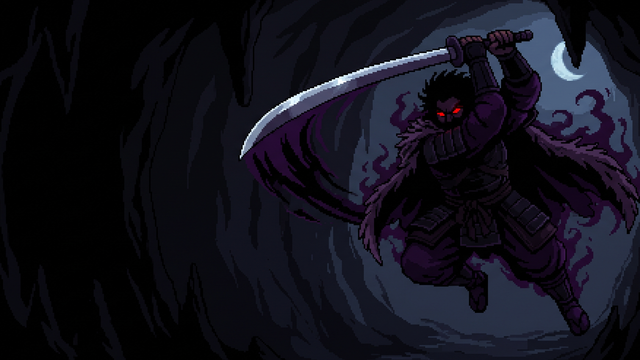
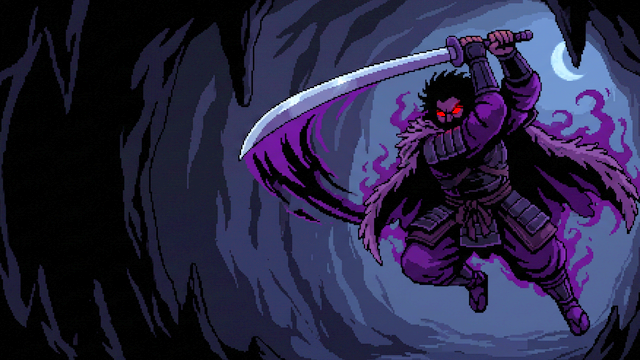
v110: 必殺技の挿絵を明るく・黒沼の大水・ムカデとオロチの絵

diff --git a/src/scenes/FieldScene.js b/src/scenes/FieldScene.js
@@ -2,31 +2,31 @@
 // 上 y0〜420 に地図（1マス32ドット・旅の者が真ん中、しおりと加わった仲間が1歩ずつうしろに続く）／下の窓に十字キーと「はなす」「どうぐ」
 // 話す・店・宿の文と選びも下の窓（そのあいだ十字キーは隠す）
 // 旅の状態は registry の 'game'（計算は src/field/game.js）。地図が変わる（町に入る・出る）たびに この場面を始め直す
-import { EPISODES } from '../data/episodes.js?v=109';
-import { ITEMS, PRICE, itemNote } from '../data/items.js?v=109';
-import { FISH, PRIZES, ROD_PRICE, BITE_WINDOW_MS, WAIT_MS, rollFish, zoneStart, inZone, rentRod, addCatch, exchange } from '../field/fishing.js?v=109';
-import { RIDERS } from '../data/nomaoi_assets.js?v=109';
-import { FLAGS, FLAG_PRIZES, ENTRY_PRICE, ROUND_MS, CATCH_P, newRace, stepRace, racePts, flagX, fallP, enterRace, addFlags, exchangeFlag } from '../field/nomaoi.js?v=109';
-import { TILE } from '../field/tiles.js?v=109';
-import { GROUNDS, OBJECTS, fieldLook, townLook } from '../field/look.js?v=109';
-import { preloadKit, makeWindow, makeButton, makePad, paginate } from '../ui/kit.js?v=109';
-import { preloadPeople, frameOf, ORIGIN_Y } from '../field/sprites.js?v=109';
-import { TOWNS, TOWN_OF } from '../field/towns.js?v=109';
+import { EPISODES } from '../data/episodes.js?v=110';
+import { ITEMS, PRICE, itemNote } from '../data/items.js?v=110';
+import { FISH, PRIZES, ROD_PRICE, BITE_WINDOW_MS, WAIT_MS, rollFish, zoneStart, inZone, rentRod, addCatch, exchange } from '../field/fishing.js?v=110';
+import { RIDERS } from '../data/nomaoi_assets.js?v=110';
+import { FLAGS, FLAG_PRIZES, ENTRY_PRICE, ROUND_MS, CATCH_P, newRace, stepRace, racePts, flagX, fallP, enterRace, addFlags, exchangeFlag } from '../field/nomaoi.js?v=110';
+import { TILE } from '../field/tiles.js?v=110';
+import { GROUNDS, OBJECTS, fieldLook, townLook } from '../field/look.js?v=110';
+import { preloadKit, makeWindow, makeButton, makePad, paginate } from '../ui/kit.js?v=110';
+import { preloadPeople, frameOf, ORIGIN_Y } from '../field/sprites.js?v=110';
+import { TOWNS, TOWN_OF } from '../field/towns.js?v=110';
 import {
   mapRows, terrainAt, canWalk, tileNameAt, DELTA, BOSS_AT, WALL_OPENED_BY, SAVE_KEY, maxOf,
   enterTown, leaveTown, buy, stayInn, save, autoSaveAfterBoss, useItem, walkStep, encounterAt,
   purify, kuyo, returnStolen, HARAI_PRICE, KUYO_PRICE, revive, revivePrice, NAME, isField, crossAt,
-} from '../field/game.js?v=109';
-import { membersOf } from '../battle/levels.js?v=109';
-import { COMPANIONS } from '../data/companions.js?v=109';
-import { ICON_IDS } from '../data/icons.js?v=109';
-import { FACE_IDS } from '../data/faces.js?v=109';
-import { mapPointOf } from '../field/mapcard.js?v=109';
-import { FISHING_ICON_IDS } from '../data/icons_fishing.js?v=109';
-import { makeRng } from '../battle/rules.js?v=109';
-import { EQUIP, SLOTS, SLOT_NAME, equipNote, START_EQUIP, diffNote, diffDown } from '../data/equip.js?v=109';
-import { buyEquip, partyView } from '../field/game.js?v=109';
-import { sfx, startBgm, playJingle, jingleSeconds } from '../audio/chip.js?v=109';
+} from '../field/game.js?v=110';
+import { membersOf } from '../battle/levels.js?v=110';
+import { COMPANIONS } from '../data/companions.js?v=110';
+import { ICON_IDS } from '../data/icons.js?v=110';
+import { FACE_IDS } from '../data/faces.js?v=110';
+import { mapPointOf } from '../field/mapcard.js?v=110';
+import { FISHING_ICON_IDS } from '../data/icons_fishing.js?v=110';
+import { makeRng } from '../battle/rules.js?v=110';
+import { EQUIP, SLOTS, SLOT_NAME, equipNote, START_EQUIP, diffNote, diffDown } from '../data/equip.js?v=110';
+import { buyEquip, partyView } from '../field/game.js?v=110';
+import { sfx, startBgm, playJingle, jingleSeconds } from '../audio/chip.js?v=110';
 
 // 景品の窓（釣り＝小名浜の釣り番／旗＝雲雀ヶ原の世話役）。同じ窓を 点の名前と景品の表だけ替えて使う
 const PRIZE_SHOPS = {

diff --git a/src/scenes/BattleScene.js b/src/scenes/BattleScene.js
@@ -1,14 +1,14 @@
-import { EPISODES } from '../data/episodes.js?v=109';
-import { revealAt } from '../ui/reveal.js?v=109';
-import { createBattle, resolveTurn, makeRng } from '../battle/rules.js?v=109';
-import { chooseCommands } from '../battle/auto.js?v=109';
-import { itemNote } from '../data/items.js?v=109';
-import { unlock, isUnlocked, sfx, startBgm, stopBgm, toggleMute, isMuted, playVoice, stopVoice, voiceLevel } from '../audio/chip.js?v=109';
-import { STORY_FILES } from '../data/story_assets.js?v=109';
-import { CUTIN_FILES } from '../data/cutin_assets.js?v=109';
-import { drawScroll } from '../ui/scroll.js?v=109';
-import { preloadKit, makeWindow, makeButton, paginate } from '../ui/kit.js?v=109';
-import { battleData, afterWin, afterLose, afterForcedLose, zakoData, afterZako, BOSS_MON } from '../field/game.js?v=109';
+import { EPISODES } from '../data/episodes.js?v=110';
+import { revealAt } from '../ui/reveal.js?v=110';
+import { createBattle, resolveTurn, makeRng } from '../battle/rules.js?v=110';
+import { chooseCommands } from '../battle/auto.js?v=110';
+import { itemNote } from '../data/items.js?v=110';
+import { unlock, isUnlocked, sfx, startBgm, stopBgm, toggleMute, isMuted, playVoice, stopVoice, voiceLevel } from '../audio/chip.js?v=110';
+import { STORY_FILES } from '../data/story_assets.js?v=110';
+import { CUTIN_FILES, CUTIN_V } from '../data/cutin_assets.js?v=110';
+import { drawScroll } from '../ui/scroll.js?v=110';
+import { preloadKit, makeWindow, makeButton, paginate } from '../ui/kit.js?v=110';
+import { battleData, afterWin, afterLose, afterForcedLose, zakoData, afterZako, BOSS_MON } from '../field/game.js?v=110';
 
 // 1つの戦いの画面を、話ごとのデータ（src/data/<話>.js・並びは episodes.js）で使い回す
 // 絵は Gemini で描いて art_src/prep_art.py で整えた物（敵も背景も2倍で見せる）。データの art に置き場と光の色
@@ -73,7 +73,7 @@ export class BattleScene extends Phaser.Scene {
       }
     }
     // 必殺技の挿絵（カットイン・10/3〜）。届いている物だけ読む
-    for (const sp of [this.ep.enemy.special, this.ep.enemy.special2]) if (sp?.cutin && CUTIN_FILES.includes(sp.cutin) && !this.textures.exists(sp.cutin)) this.load.image(sp.cutin, sp.cutin);
+    for (const sp of [this.ep.enemy.special, this.ep.enemy.special2]) if (sp?.cutin && CUTIN_FILES.includes(sp.cutin) && !this.textures.exists(sp.cutin)) this.load.image(sp.cutin, `${sp.cutin}?v=${CUTIN_V}`);
     preloadKit(this);
     for (const f of ['normal', 'surprise', 'sad']) if (!this.textures.exists(`face_${f}`)) this.load.image(`face_${f}`, `assets/cards/face_${f}.png`);
   }

diff --git a/src/data/episodes.js b/src/data/episodes.js
@@ -1,19 +1,19 @@
 // 遊ぶ順（話数＝順路の順・本人 10/1）。題の画面は先頭の話を出し、勝つと「つぎの話へ」で次へ進む
 // 序章：第一話 松川様 → 第二話 賢沼の大うなぎ → 第三話 蛇岸淵（淵の主）→ 第四話 龍燈
-import { MATSUKAWA } from './matsukawa.js?v=109';
-import { KASHINUMA } from './kashinuma.js?v=109';
-import { JAGAN } from './jagan.js?v=109';
-import { RYUTO } from './ryuto.js?v=109';
+import { MATSUKAWA } from './matsukawa.js?v=110';
+import { KASHINUMA } from './kashinuma.js?v=110';
+import { JAGAN } from './jagan.js?v=110';
+import { RYUTO } from './ryuto.js?v=110';
 // 1章 相馬（10/3）：第五話 ザルカブリ山 → 第六話 大悲山の大蛇 → 第七話 手長明神 → 第八話 虎捕山の白狼（橘墨虎）
-import { ZARUKABURI } from './zarukaburi.js?v=109';
-import { DAIHISAN } from './daihisan.js?v=109';
-import { TENAGA } from './tenaga.js?v=109';
-import { SUMITORA } from './sumitora.js?v=109';
+import { ZARUKABURI } from './zarukaburi.js?v=110';
+import { DAIHISAN } from './daihisan.js?v=110';
+import { TENAGA } from './tenaga.js?v=110';
+import { SUMITORA } from './sumitora.js?v=110';
 // 2章 県北（10/4）：第九話 飴買い幽霊 → 第十話 ご坊狐 → 第十一話 ムカデとオロチ → 第十二話 へっぴり嫁 → 第十三話 安達ヶ原の鬼婆
-import { AMEKAI } from './amekai.js?v=109';
-import { GOBOU } from './gobou.js?v=109';
-import { MUKADE } from './mukade.js?v=109';
-import { HEPPIRI } from './heppiri.js?v=109';
-import { ONIBABA } from './onibaba.js?v=109';
+import { AMEKAI } from './amekai.js?v=110';
+import { GOBOU } from './gobou.js?v=110';
+import { MUKADE } from './mukade.js?v=110';
+import { HEPPIRI } from './heppiri.js?v=110';
+import { ONIBABA } from './onibaba.js?v=110';
 
 export const EPISODES = [MATSUKAWA, KASHINUMA, JAGAN, RYUTO, ZARUKABURI, DAIHISAN, TENAGA, SUMITORA, AMEKAI, GOBOU, MUKADE, HEPPIRI, ONIBABA];

diff --git a/src/field/game.js b/src/field/game.js
@@ -1,15 +1,15 @@
 // 旅の状態（居場所・文・持ち物・仲間の HP・元に戻したボス・記録）。画面と切り離す＝Node で試験する
 // ここの関数は game を書き換えずに、新しい game を返す
-import { IWAKI_ROWS } from './iwaki_map.js?v=109';
-import { SOMA_ROWS } from './soma_map.js?v=109';
-import { KENPOKU_ROWS } from './kenpoku_map.js?v=109';
-import { FIELD_TERRAIN, TOWN_TERRAIN } from './tiles.js?v=109';
-import { TOWNS, TOWN_ENTRY } from './towns.js?v=109';
-import { ITEMS, PRICE, OLD_ITEM } from '../data/items.js?v=109';
-import { ZAKO, ZAKO_TELL } from '../data/zako.js?v=109';
-import { statsAt, levelFor, EXP_TO, PARTY_IDS, ALL_IDS, MAX_PARTY, membersOf, statsWithGear } from '../battle/levels.js?v=109';
-import { COMPANIONS, COMPANION_SPELLS, JOIN_AFTER, SWAP_AFTER_LOSS } from '../data/companions.js?v=109';
-import { EQUIP, START_EQUIP } from '../data/equip.js?v=109';
+import { IWAKI_ROWS } from './iwaki_map.js?v=110';
+import { SOMA_ROWS } from './soma_map.js?v=110';
+import { KENPOKU_ROWS } from './kenpoku_map.js?v=110';
+import { FIELD_TERRAIN, TOWN_TERRAIN } from './tiles.js?v=110';
+import { TOWNS, TOWN_ENTRY } from './towns.js?v=110';
+import { ITEMS, PRICE, OLD_ITEM } from '../data/items.js?v=110';
+import { ZAKO, ZAKO_TELL } from '../data/zako.js?v=110';
+import { statsAt, levelFor, EXP_TO, PARTY_IDS, ALL_IDS, MAX_PARTY, membersOf, statsWithGear } from '../battle/levels.js?v=110';
+import { COMPANIONS, COMPANION_SPELLS, JOIN_AFTER, SWAP_AFTER_LOSS } from '../data/companions.js?v=110';
+import { EQUIP, START_EQUIP } from '../data/equip.js?v=110';
 
 export const SAVE_KEY = 'fq-save-v1';
 

diff --git a/src/main.js b/src/main.js
@@ -1,11 +1,11 @@
-import { TitleScene } from './scenes/TitleScene.js?v=109';
-import { BattleScene } from './scenes/BattleScene.js?v=109';
-import { FieldScene, FIELD_TEXT } from './scenes/FieldScene.js?v=109';
-import { ZAKO, ZAKO_TELL } from './data/zako.js?v=109';
-import { HARAI } from './field/game.js?v=109';
-import { EQUIP } from './data/equip.js?v=109';
-import { EPISODES } from './data/episodes.js?v=109';
-import { unlock, isUnlocked } from './audio/chip.js?v=109';
+import { TitleScene } from './scenes/TitleScene.js?v=110';
+import { BattleScene } from './scenes/BattleScene.js?v=110';
+import { FieldScene, FIELD_TEXT } from './scenes/FieldScene.js?v=110';
+import { ZAKO, ZAKO_TELL } from './data/zako.js?v=110';
+import { HARAI } from './field/game.js?v=110';
+import { EQUIP } from './data/equip.js?v=110';
+import { EPISODES } from './data/episodes.js?v=110';
+import { unlock, isUnlocked } from './audio/chip.js?v=110';
 
 // 本人 10/2「松川と戦うまで、BGMが無い」＝iPhone は指を置いた瞬間（pointerdown）では音の出口を開けず、指を離した瞬間・クリックで開く
 // ⇒ 画面のどこを さわっても、離した瞬間に音の出口を開け直す（題の画面で一度さわった後だけ。止まっていれば鳴りだす）

diff --git a/src/data/mukade.js b/src/data/mukade.js
@@ -6,11 +6,11 @@
 // 弱点＝「主の名乗り」（どちらが主かと問うと、二匹は にらみあって ぶつかる）。明かされたあとは ときどき二匹が かみつきあう（helper の作りを使う）
 // 原典では人は関わらず相打ち＝紙芝居④で しおりが語る
 // 絵＝まだ（仮に道中のムカデの絵）。二匹を1枚に描く。プロンプト＝art_src/Geminiプロンプト_2章県北.md
-import { BASIC_ITEMS } from './basic_items.js?v=109';
+import { BASIC_ITEMS } from './basic_items.js?v=110';
 
 export const MUKADE = {
   art: {
-    dark: 'assets/zako_mukade.png', light: 'assets/zako_mukade.png', bg: 'assets/bg_dochu_north.png', // ⏳絵が届くまで仮
+    dark: 'assets/mukade_dark.png', light: 'assets/mukade_light.png', bg: 'assets/bg_dochu_north.png', // 10/4 絵が届いた（nbslan・2匹を1枚に）。⏳挿絵2枚と背景はまだ
     glowDark: 0xb090ff, glowLight: 0xffd27a,
   },
   allies: [

diff --git a/src/data/cutin_assets.js b/src/data/cutin_assets.js
@@ -1,3 +1,4 @@
 // 必殺技の挿絵（カットイン）で届いている物（art_src/prep_cutin.py が書き換える）
 // 本人 10/3「今回から、ボスの必殺技は別のアクション(挿絵)を入れて欲しい」。届く前の技は、これまでどおり光と揺れだけ
-export const CUTIN_FILES = ['assets/cutin/amekai_yokaze.png', 'assets/cutin/daihisan_ooame.png', 'assets/cutin/gobou_konoha.png', 'assets/cutin/sumitora_hiya.png', 'assets/cutin/sumitora_yamiuchi.png', 'assets/cutin/tenaga_nagaiude.png', 'assets/cutin/zarukaburi_midaregami.png'];
+export const CUTIN_FILES = ['assets/cutin/amekai_yokaze.png', 'assets/cutin/daihisan_ooame.png', 'assets/cutin/gobou_konoha.png', 'assets/cutin/mukade_doku.png', 'assets/cutin/mukade_oomizu.png', 'assets/cutin/sumitora_hiya.png', 'assets/cutin/sumitora_yamiuchi.png', 'assets/cutin/tenaga_nagaiude.png', 'assets/cutin/zarukaburi_midaregami.png'];
+export const CUTIN_V = 'af14eaf3';

diff --git a/src/data/daihisan.js b/src/data/daihisan.js
@@ -5,7 +5,7 @@
 // ゲームでは、忘れの力でよみがえった大蛇。弱点＝「鉄の釘」。助っ人＝玉都（本人 10/3「戦いの中で琵琶を弾く助っ人」）＝語って弱点が明かされると
 // 琵琶が鳴り、大蛇は聞き入って2回動けない。その後も ときどき琵琶で止める
 // 絵＝10/3 届いた（2noh3h 大蛇・xf4m56 封じられた姿）。必殺技の挿絵＝描き直し（貼り付け・使用済み_絵／大悲山_大雨_描き直し_貼り付け.jpg。1回目 vxa4qk は封じられた姿と山高帽で描かれた）。背景も届いた。プロンプト＝art_src/Geminiプロンプト_1章相馬.md
-import { BASIC_ITEMS } from './basic_items.js?v=109';
+import { BASIC_ITEMS } from './basic_items.js?v=110';
 
 export const DAIHISAN = {
   art: {

diff --git a/src/scenes/TitleScene.js b/src/scenes/TitleScene.js
@@ -1,7 +1,7 @@
-import { unlock, startBgm, stopBgm, sfx } from '../audio/chip.js?v=109';
-import { BRUSH_FONT, smooth } from '../ui/scroll.js?v=109';
-import { newGame, load, SAVE_KEY } from '../field/game.js?v=109';
-import { preloadKit, makeWindow } from '../ui/kit.js?v=109';
+import { unlock, startBgm, stopBgm, sfx } from '../audio/chip.js?v=110';
+import { BRUSH_FONT, smooth } from '../ui/scroll.js?v=110';
+import { newGame, load, SAVE_KEY } from '../field/game.js?v=110';
+import { preloadKit, makeWindow } from '../ui/kit.js?v=110';
 
 // 題の画面（本人 10/1「さわってはじめる、から音楽が欲しい」）
 // ⭐10/3 本人「アイコンクリック後、『はじめから』『つづきから』を加えてほしい」＝下に2つの札。押した札で始まる（1回で）

diff --git a/src/data/zarukaburi.js b/src/data/zarukaburi.js
@@ -4,7 +4,7 @@
 // ゲームでは、忘れられて黒いもやに呑まれた山の神の使い。⭐10/4 本人「敵と戦う形にして欲しい」＝戦う（10/3「C」の誓いの出会いは取りやめ）
 // 原典で倒されない所は、勝った後の紙芝居④と hosoku で しおりが補う。見た目は ざるのまま描き直す（本人 10/4・名前もそのまま）
 // 絵＝10/4 描き直し（sd30b3・czv1hg・必殺技 38x7zb＝ざるが頭をまるごと覆う）。旧＝10/3 qil8fg・13r9vr・pgmdxj。背景は10/3のまま。プロンプト＝art_src/Geminiプロンプト_1章相馬.md
-import { BASIC_ITEMS } from './basic_items.js?v=109';
+import { BASIC_ITEMS } from './basic_items.js?v=110';
 
 export const ZARUKABURI = {
   art: {

diff --git a/src/data/sumitora.js b/src/data/sumitora.js
@@ -5,7 +5,7 @@
 // ゲームでは、忘れの力でよみがえった墨虎。語って弱点が明かされるまでは岩穴の闇に隠れて、たたかう・鉄砲の半分がとどかない（hide）。
 // 明かされると白狼が現れて足跡で隠れ家を暴き、ときどき墨虎に とびかかる（helper）。弱点＝「白狼の足跡」
 // 絵＝10/3 届いた（pbl37p 墨虎・2uh591 捕らえられた姿＝肌が緑に描かれたので prep_art で人の肌へ・9mqri4 闇討ち・achnd8 火矢の雨）。背景も届いた。プロンプト＝art_src/Geminiプロンプト_1章相馬.md
-import { BASIC_ITEMS } from './basic_items.js?v=109';
+import { BASIC_ITEMS } from './basic_items.js?v=110';
 
 export const SUMITORA = {
   art: {

diff --git a/src/data/tenaga.js b/src/data/tenaga.js
@@ -4,7 +4,7 @@
 // 漁師になった少年 長吉は、海から戻ると海のめぐみと無事に帰れたことへの感謝を忘れなかった
 // ゲームでは、忘れられて黒いもやに呑まれた暮らしの守り神。弱点＝「海の幸への感謝」。倒すと元に戻り、長い腕で虎捕山への もやを払う
 // 絵＝10/3 届いた（1ukroq 呑まれた・z1hpg6 元の姿・3dcp6z 長い腕。①→挿絵→②の順で頼んで姿がそろった）。背景も届いた。プロンプト＝art_src/Geminiプロンプト_1章相馬.md
-import { BASIC_ITEMS } from './basic_items.js?v=109';
+import { BASIC_ITEMS } from './basic_items.js?v=110';
 
 export const TENAGA = {
   art: {
